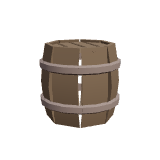
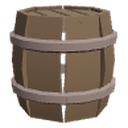
수학 놀이터 검수(1) — 낚시·장터·화물 싣기에서 어색한 곳 고침
- 장터: 생선이 있으면 꾸미기 전에도 물고기 통을 팔고 손님이 생선을 찾음(낚시 → 장터가 처음부터 이어지게, rules.js 그대로)
  굴러가는 물건은 손님 줄을 지나 선착장 뒤 끝에서 바다로 · 잡은 물건은 지금 손님이 원할 때만 바구니로
- 낚시 섬: 실린 통 팻말은 ✓ 대신 그 통의 수 · 맞는 물고기가 없으면 수를 바꾸지 않고 새 물고기가 들어옴
  황금 물고기 눈은 그대로 · 통에 든 물고기는 잠깐 파닥이고 멈춤(가볍게) · 물에 반쯤 잠겨 헤엄 · 처음 낚은 종류를 도감에
- 다리 길 화물: 틈 셋을 훑어 본 뒤에 화물 판이 열리고, 떠나면 바로 시작
- 물건 그림(장터·광장)의 투명 여백을 잘라 크게 보이게 · 광장 나루터 팻말의 그림 키움

Claude-Session: https://claude.ai/code/session_01TAsvZ1RrRa77LFFDK9JdBk

diff --git a/math/play/fishing/fishing.js b/math/play/fishing/fishing.js
@@ -9,14 +9,14 @@
 import { createStage, THREE, LOOK, CALM, sleep } from '../common/stage3d.js?v=1';
 import * as A from '../common/ask.js?v=1';
 import * as R from './rules.js?v=1';
-import { wallet, audio, tone } from '../common/kit.js?v=5';
+import { wallet, audio, tone } from '../common/kit.js?v=6';
 import * as L from '../common/loop.js?v=1';   /* N04: 실은 통의 물고기는 장터 생선 진열대로 */
 
 // ── 내가 정한 수치(준호가 보고 바꾼다)
 const T = { DECK: .45, TUB_X: [-2.7, -1.65, -.6], TUB_Z: 1.9, TUB_S: 1.3, BOAT: [2.35, 0, 1.25], BOAT_S: .48, ANNE: [.55, 1.7],
   SEA: { x: [-5.5, 5.5], z: [-5.8, -2.1] }, FISH_S: 1.35, IN_TUB_S: .58, SPEED: [.55, 1.05], FLY_MS: 650, PICK_PX: 75,
   DUSK: { SUNSET: ['#f08a5d', '#f6b98b', '#ffe0b0'], NIGHT: ['#283057', '#6a4f7d', '#c9806c'], SEA_DUSK: 0x1e5c86 },
-  BEAT: .72, SCATTER: 1.8, THIEF_SPEED: .9, LINE_FAST: .1 };
+  SWIM_Y: -.04, BEAT: .72, SCATTER: 1.8, THIEF_SPEED: .9, LINE_FAST: .1 };
 const $ = id => document.getElementById(id);
 const SAVE = wallet.island('fishing'); SAVE.trips = Math.max(0, SAVE.trips | 0); SAVE.tubs = Math.max(0, SAVE.tubs | 0);
 const S = { ready: false, busy: true, intro: false, missing: false, trip: null, ti: 0, left: 0, fill: [[], [], []], loaded: [], fish: [], tubs: [], tubFish: [[], [], []], clock: 0, streak: 0, overInTub: false, log: [], ask: null, thief: null, thiefIn: 0, schoolIn: 0, t: 0, beat: 0, scatter: 0, signs: [], id: 0 };
@@ -38,7 +38,7 @@ function bucketKit(g){ let mesh = null; g.scene.traverse(m => { if (m.isMesh && 
     const sz = b.size; if (sz.z >= sz.x) inner.rotation.y = Math.PI / 2; const w = new THREE.Group(); w.add(inner); w.userData.len = Math.max(sz.x, sz.z); return w; });
   return { tub, fish, mat: mesh.material }; }
 let KIT = null;
-const tint = (o, color, glow = 0) => { o.traverse(m => { if (m.isMesh) { m.material = m.material.clone(); m.material.color.set(color); if (glow) { m.material.emissive = new THREE.Color(color); m.material.emissiveIntensity = glow; } } }); return o; };
+const tint = (o, color, glow = 0) => { o.traverse(m => { if (m.isMesh) { const c0 = m.material.color; if (c0.r + c0.g + c0.b < .12) return;   /* 어두운 부분(눈)은 그대로 */ m.material = m.material.clone(); m.material.color.set(color); if (glow) { m.material.emissive = new THREE.Color(color); m.material.emissiveIntensity = glow; } } }); return o; };
 
 // ── 무대 꾸리기
 async function build(){ await Promise.all(NAMES.map(async n => { K[n] = await stage.load(n); })); await Promise.all(OPT.map(async n => { try { K[n] = await stage.load(n); } catch (_) { K[n] = null; } }));
@@ -75,7 +75,7 @@ const _v = new THREE.Vector3(); function edgeX(z, side){ _v.set(0, .04, z).proje
 // ── 물고기
 /* 물고기 하나: 고른 모형(움직임 있음)을 감싸서(모형은 +z 를 봄 → 감싼 쪽이 +x 를 보게) 돌려준다. 모형이 없으면 양동이 조각으로 */
 function fishModel(kind, v){ const name = kind === 'gold' ? SPECIAL.gold : kind === 'puffer' ? SPECIAL.puffer : kind === 'big' ? SPECIAL.big[S.id % 2] : FISH[(v * 3 + S.id) % FISH.length], rig = K['Fish_' + name], o = new THREE.Group();
-  if (rig) { const p = stage.person(rig, { scale: 1 }); scene.remove(p.obj); p.obj.rotation.y = Math.PI / 2; o.add(p.obj); stage.play(p, 'Swimming_Normal'); if (p.act) p.act.time = Math.random() * 2; o.userData.p = p; if (kind === 'gold') tint(p.obj, '#ffcf3a', .45); }
+  if (rig) { const p = stage.person(rig, { scale: 1 }); scene.remove(p.obj); p.obj.rotation.y = Math.PI / 2; o.add(p.obj); stage.play(p, 'Swimming_Normal'); if (p.act) p.act.time = Math.random() * 2; o.userData.p = p; o.userData.name = name; if (kind === 'gold') tint(p.obj, '#ffcf3a', .45); }
   else { o.add(KIT.fish[(v + S.id) % KIT.fish.length].clone(true)); if (kind === 'gold') tint(o, '#ffcf3a', .55); else if (kind === 'puffer') { tint(o, '#f3e3a2'); o.scale.set(1, 1.35, 1.25); } }
   o.traverse(m => { if (m.isMesh) m.castShadow = true; }); if (kind === 'big') o.userData.big = true;
   const s = T.FISH_S * (S.fk || 1) * (kind === 'big' ? 1.45 : .8 + Math.min(v, 9) * .06) * (rig ? .95 : 1); o.scale.multiplyScalar(s); scene.add(o); return o; }
@@ -107,16 +107,17 @@ async function hook1(f){ S.busy = true; lineTo(f); stage.play(S.anne, 'Sword', t
   const o = R.land(S.left, f), tub = S.tubs[S.ti], at = tub.position.clone(); at.y += .9; f.caught = true; flap(f.obj); S.log.push({ fish: f.v, kind: f.kind, out: o.kind, left: S.left });
   await stage.tween(f.obj.position, { x: at.x, y: at.y + 1.2, z: at.z }, flyMs() * .65, t => t * (2 - t)); await stage.tween(f.obj.position, { y: at.y }, flyMs() * .35, t => t * t);
   if (o.kind === 'over') { S.overInTub = true; S.streak = 0; A.flames(0); wobble(tub); tone(220, .25, 'sine', .1, 0, 140); S.scatter = T.SCATTER;
-    await stage.tween(f.obj.position, { x: f.x, y: .05, z: f.z }, 700, t => t); f.caught = false; if (f.obj.userData.p) stage.play(f.obj.userData.p, 'Swimming_Normal'); f.dir *= -1; f.sp *= 1.5; stage.play(S.anne, 'No', true); S.busy = false; return; }
+    await stage.tween(f.obj.position, { x: f.x, y: T.SWIM_Y, z: f.z }, 700, t => t); f.caught = false; if (f.obj.userData.p) stage.play(f.obj.userData.p, 'Swimming_Normal'); f.dir *= -1; f.sp *= 1.5; stage.play(S.anne, 'No', true); S.busy = false; return; }
   // 통에 들어감
+  if (f.obj.userData.name && wallet.collect('fish3d', f.obj.userData.name)) S.log.push({ book: f.obj.userData.name });   /* 도감: 처음 낚은 종류 */
   drop(f.obj); S.fish = S.fish.filter(x => x !== f); S.fill[S.ti].push(o.w); putInTub(S.ti, f, o.w); S.left = o.left; A.trayAdd(o.w, S.fill[S.ti].length > 1 ? '+' : '', f.kind === 'puffer' ? '부풂' : f.kind === 'gold' ? '황금' : '');
   tone(700 + S.fill[S.ti].reduce((a, b) => a + b, 0) * 25, .08, 'square', .06); if (f.kind === 'puffer') { tone(880, .2, 'sine', .08, 0, 1320); }
   if (o.kind === 'fit') { await closeTub(); return; }
   topUp(); S.busy = false; }
 function putInTub(k, f, w){ const n = S.tubFish[k].length, o = fishModel(f.kind, f.v); o.scale.multiplyScalar(T.IN_TUB_S / T.FISH_S / (S.fk || 1)); const a = n * 2.4, r = .1 + (n % 4) * .05; o.position.set(S.tubs[k].position.x + Math.cos(a) * r, T.DECK + .64 + Math.floor(n / 4) * .06, T.TUB_Z + Math.sin(a) * r); o.rotation.set(-.3, a, 0);
-  if (f.kind === 'puffer') stage.tween(o.scale, { y: o.scale.y * 1.35, z: o.scale.z * 1.25 }, 300); flap(o); S.tubFish[k].push(o); }
+  if (f.kind === 'puffer') stage.tween(o.scale, { y: o.scale.y * 1.35, z: o.scale.z * 1.25 }, 300); flap(o); S.tubFish[k].push(o); setTimeout(() => { const p = o.userData.p; if (p) { stage.unperson(p); o.userData.p = null; } }, 1600); }   /* 통 안에서는 잠깐 파닥이고 멈춘다(움직임을 계속 돌리면 무겁다) */
 function wobble(tub){ stage.tween(tub.rotation, { z: .28 }, 120).then(() => stage.tween(tub.rotation, { z: -.2 }, 160)).then(() => stage.tween(tub.rotation, { z: 0 }, 200)); }
-function topUp(){ while (S.fish.filter(f => !f.fast).length < S.trip.n) addFish(false); }
+function topUp(){ while (S.fish.filter(f => !f.fast && !f.leave).length < S.trip.n) addFish(false); }
 
 // ── 통이 딱 찼다: 띠의 식이 닫히고 배에 실린다
 async function closeTub(){ const k = S.ti, cap = S.trip.tubs[k]; A.trayAdd(cap, '=', ''); S.loaded.push(cap); if (!S.overInTub) S.streak++; else S.streak = 0; S.overInTub = false; A.flames(S.streak);
@@ -154,7 +155,7 @@ async function intro(){ const my = S.introId = (S.introId | 0) + 1; S.intro = tr
 // ── 팻말: 통(남은 칸 · 지금 통은 크게) · 물고기 등의 수
 function signsDraw(){ const sg = S.signs; S.tubs.forEach((t, k) => { const e = sg[k], done = k < S.loaded.length, cur = k === S.ti && !done;
     if (S.missing && !done) { A.signDraw(e, null); return; }
-    const left = cur ? S.left : done ? 0 : S.trip.tubs[k]; e.classList.toggle('off', !cur && !done); e.classList.toggle('done', done); A.signDraw(e, stage.screenOf(new THREE.Vector3(t.position.x, t.position.y + 1.2, t.position.z + .2)), done ? '✓' : left); });
+    const left = cur ? S.left : done ? 0 : S.trip.tubs[k]; e.classList.toggle('off', !cur && !done); e.classList.toggle('done', done); A.signDraw(e, stage.screenOf(new THREE.Vector3(t.position.x, t.position.y + (done ? .95 : 1.2), t.position.z + .2)), done ? S.loaded[k] : left); });   /* 실린 통은 그 통의 수를 그대로(끝의 셈에 쓸 수) */
   /* 물고기 팻말: 겹치면 위로 비켜 선다(화면 위 표시끼리만 — 물고기는 그대로) */
   const live = S.fish.filter(f => !f.caught), pts = live.map(f => { const q = stage.screenOf(new THREE.Vector3(f.obj.position.x, f.obj.position.y + .55 * (f.kind === 'big' ? 1.6 : 1), f.obj.position.z)); return { f, x: q.x, y: q.y, w: f.v <= 5 && f.kind !== 'gold' ? 14 + f.v * 12 : 38 }; }).sort((a, b) => b.y - a.y);
   for (let a = 0; a < pts.length; a++) for (let b = 0; b < a; b++) { const A = pts[a], B = pts[b]; if (Math.abs(A.x - B.x) < (A.w + B.w) / 2 + 4 && Math.abs(A.y - B.y) < 34) A.y = B.y - 36; }
@@ -167,10 +168,10 @@ stage.frame((dt, t) => { S.t = t; if (!S.ready) return;
     if (S.clock > T.BEAT && t - S.beat > .25 + (1 - S.clock) * 2.4) { S.beat = t; tone(96, .09, 'sine', .16); tone(72, .12, 'sine', .12, .09); } }
   // 물고기가 헤엄친다(넘친 뒤엔 잠깐 흩어짐)
   S.scatter = Math.max(0, S.scatter - dt); const boost = 1 + S.scatter;
-  for (const f of S.fish) { if (f.caught) continue; f.x += f.dir * f.sp * boost * dt; const o = f.obj; o.position.set(f.x, .04 + Math.sin(t * 2 + f.ph) * .05, f.z + Math.sin(t * .7 + f.ph) * .25); o.rotation.y = f.dir > 0 ? 0 : Math.PI; o.rotation.z = Math.sin(t * 6 + f.ph) * .12;
-    const l = edgeX(f.z, -1) - .9, r = edgeX(f.z, 1) + .9; if (f.fast) { if ((f.dir > 0 && f.x > r + 2) || (f.dir < 0 && f.x < l - 2)) f.gone = true; }   /* 떼는 지나간 쪽 끝에서만 사라짐 */ else if ((f.x < l + 1.4 && f.dir < 0) || (f.x > r - 1.4 && f.dir > 0)) f.dir *= -1; }
+  for (const f of S.fish) { if (f.caught) continue; f.x += f.dir * f.sp * boost * dt; const o = f.obj; o.position.set(f.x, T.SWIM_Y + Math.sin(t * 2 + f.ph) * .05, f.z + Math.sin(t * .7 + f.ph) * .25); o.rotation.y = f.dir > 0 ? 0 : Math.PI; o.rotation.z = Math.sin(t * 6 + f.ph) * .12;
+    const l = edgeX(f.z, -1) - .9, r = edgeX(f.z, 1) + .9; if (f.fast || f.leave) { if ((f.dir > 0 && f.x > r + 2) || (f.dir < 0 && f.x < l - 2)) f.gone = true; }   /* 떼는 지나간 쪽 끝에서만 사라짐 */ else if ((f.x < l + 1.4 && f.dir < 0) || (f.x > r - 1.4 && f.dir > 0)) f.dir *= -1; }
   for (const f of S.fish.filter(f => f.gone)) drop(f.obj); S.fish = S.fish.filter(f => !f.gone);
-  if (!S.busy && !S.missing && S.left > 0) { const live = S.fish.filter(f => !f.caught); const u = R.unstick(S.left, S.trip, live); if (u != null) { const f = live.find(x => x.kind === 'plain') || live[0]; if (f) { f.kind = 'plain'; f.v = u; } } }
+  if (!S.busy && !S.missing && S.left > 0) { const live = S.fish.filter(f => !f.caught); const u = R.unstick(S.left, S.trip, live); if (u != null && !live.some(x => x.rescue)) { const out = live.find(x => x.kind === 'plain' && !x.fast); if (out) out.leave = true; const f = addFish(false, { kind: 'plain', v: u }); f.rescue = true; f.sp *= 1.6; S.log.push({ rescue: u }); } }   /* 맞는 물고기가 없으면: 수를 바꾸지 않고, 맞는 물고기가 새로 들어오고 안 맞는 한 마리가 나간다 */
   // 빠른 떼
   if (S.trip.ev.school && thinking && !S.ask && (S.schoolIn -= dt) <= 0) { S.schoolIn = 14 + Math.random() * 10; const dir = Math.random() < .5 ? 1 : -1, z = -2 - Math.random() * 2.5; R.school(S.left, S.trip, Math.random).forEach((v, i) => { const f = addFish(false, { kind: 'plain', v, fast: true }); f.dir = dir; f.x = (dir > 0 ? edgeX(z, -1) - 1 : edgeX(z, 1) + 1) - dir * i * .9; f.z = z + (i % 2) * .5; }); S.log.push({ school: true }); tone(660, .08, 'triangle', .06); }
   // 도둑 배

diff --git a/math/play/market/scene3d.js b/math/play/market/scene3d.js
@@ -3,8 +3,8 @@
  * 손님의 말풍선(주문 팻말)은 shop.js 의 .guest 를 사람 머리 위로 옮겨 쓴다. 물체는 모두 기성 재료(Quaternius Pirate Kit, CC0) — ../bridge/assets/ 를 같이 씀.
  * 물건 모습: 장작 = UI_Wood · 돌 = Environment_Rock_5 · 통 = Prop_Barrel · 물고기 통 = Prop_Bucket_Fishes(음식 꾸러미를 받으면 GOODS 표만 바꾼다). 빵집 물건은 모형이 없어 아래 칸(나무 상자 줄)에서만 담는다. */
 import { createStage, THREE, sleep, CALM } from '../common/stage3d.js?v=1';
-import { toast, tone, audio } from '../common/kit.js?v=5';
-import * as M5 from './rules.js?v=2';
+import { toast, tone, audio } from '../common/kit.js?v=6';
+import * as M5 from './rules.js?v=3';
 
 // ── 내가 정한 수치
 const M = {
@@ -12,6 +12,7 @@ const M = {
   LINE_Z: -.7, SLOT: 1.55, EDGE: 3.5,          // 손님이 서는 줄(가운데부터 양옆으로)
   COUNTER_Z: 1.75, TOP: .83, BARREL: .62,       // 계산대(통 줄) · 윗면
   ROLL_MS: 3200,                    // 굴러가는 물건이 굴러 떨어지기까지(몇 초마다는 ./rules.js N5.ROLL)
+  EDGE_Z: -2.5,                     // 선착장 뒤 끝(굴러간 물건이 바다에 빠지는 곳)
   WAIT_STOMP: .3,                   // 이보다 덜 남으면 손님이 발을 구른다(고개 젓기)
   FIT: 4.3,                         // 화면 폭에 늘 들어올 양끝(물고기 통 더미 바깥)
 };
@@ -63,7 +64,7 @@ function pile(k, box){ const key = box ? 'box' : k, old = piles[key]; if (old) {
   if (box) for (let i = 0; i < 10; i++) { const o = good(k, .62); if (o) { o.position.set(((i % 5) - 2) * .25, (i < 5 ? 0 : .2), i < 5 ? .12 : -.08); g.add(o); } }
   else for (const [x, y, z] of pileShape(n)) { const o = good(k); if (o) { o.position.set(x, y, z); o.rotation.y = Math.random() * 6; g.add(o); } }
   piles[key] = { g, k, box }; tag(g, { t: box ? 'box' : 'pile', k }); return g; }
-function piles3(){ const o = shop.SAVE.owned, list = shop.R.goods(o, S.shop).filter(k => GOODS[k] && (k !== 'grape' || shop.L.fish() > 0))   /* 생선이 없으면 물고기 통 더미도 없음 */, want = new Set(list.map(k => k)); const box = (o.box && GOODS[shop.R.STOCK[S.shop]]) ? shop.R.STOCK[S.shop] : null;
+function piles3(){ const o = shop.SAVE.owned, list = shop.goodsM().filter(k => GOODS[k] && (k !== 'grape' || shop.L.fish() > 0))   /* 생선이 없으면 물고기 통 더미도 없음 */, want = new Set(list.map(k => k)); const box = (o.box && GOODS[shop.R.STOCK[S.shop]]) ? shop.R.STOCK[S.shop] : null;
   for (const key of Object.keys(piles)) if ((key === 'box' ? !box || piles.box.k !== box : !want.has(key))) { scene.remove(piles[key].g); pick.splice(pick.indexOf(piles[key].g), 1); delete piles[key]; }
   for (const k of list) if (!piles[k]) pile(k); if (box && !piles.box) pile(box, true); }
 
@@ -115,8 +116,8 @@ function startRoll(){ const ks = Object.keys(piles).filter(k => k !== 'box'); if
   const o = good(P.k), from = new THREE.Vector3(); src.getWorldPosition(from); src.visible = false; o.position.copy(from); scene.add(o); const dir = from.x < 0 ? 1 : -1;
   roll = { o, src, k: P.k, t: 0, dir, x0: from.x }; tag(o, { t: 'roll' }); o.position.y = M.FLOOR + .15; tone(330, .2, 'triangle', .06, 0, 220); S.log.push({ roll: 'start' }); }
 function endRoll(caught){ const r = roll; if (!r) return; roll = null; pick.splice(pick.indexOf(r.o), 1); S.log.push({ roll: caught ? 'caught' : 'miss' });
-  if (caught) { audio(); tone(780, .1, 'square', .06); tone(1170, .14, 'square', .06, .08); toast('잡았다!', 900); shop.put(r.k, 1);   /* 잡으면 바로 바구니로(바구니가 차 있으면 더미로 돌아감) */ tween(r.o.position, { y: r.o.position.y + .8 }, 220).then(() => { scene.remove(r.o); r.src.visible = true; }); }
-  else { tween(r.o.position, { y: -1.2, z: r.o.position.z + 1.6 }, 600).then(() => { scene.remove(r.o); setTimeout(() => r.src.visible = true, 1500); }); tone(200, .3, 'sine', .06, 0, 90); } }
+  if (caught) { audio(); tone(780, .1, 'square', .06); tone(1170, .14, 'square', .06, .08); toast('잡았다!', 900); const g = S.sel, want = g && !g.leaving && !S.payG ? (g.order[r.k] || 0) - shop.count(r.k) : 0; if (want > 0) shop.put(r.k, 1);   /* 지금 손님이 그 물건을 더 원하면 바구니로, 아니면 더미로 돌아감(주문을 흐트러뜨리지 않게) */ tween(r.o.position, { y: r.o.position.y + .8 }, 220).then(() => { scene.remove(r.o); r.src.visible = true; }); }
+  else { tween(r.o.position, { y: -1.2, z: r.o.position.z - .7 }, 600, t => t * t).then(() => { scene.remove(r.o); setTimeout(() => r.src.visible = true, 1500); }); tone(200, .3, 'sine', .06, 0, 90); } }   /* 선착장 뒤 끝에서 바다로 퐁 */
 
 // ── 누르기
 $('c').addEventListener('pointerdown', e => { const hit = pointerRay(e).intersectObjects(pick, true)[0]; if (!hit) return; const a = hit.object.userData.act; if (!a) return; e.preventDefault(); audio();
@@ -131,7 +132,7 @@ function bump(P){ if (!P) return; const g = P.g; tween(g.scale, { y: .9 }, 70).t
 let t0 = 0;
 let aimT = 0;
 stage.frame((dt, t) => { if ((aimT += dt) > .4) { aimT = 0; const pn = document.querySelector('.inside'), k = innerWidth + 'x' + innerHeight + ':' + Math.round(pn ? pn.getBoundingClientRect().top : 0); if (k !== aimKey) aim(); } piles3(); drawBasket(); drawSlots(); sync(); if (ship) { ship.position.y = Math.sin(t * .8) * .06; ship.rotation.z = Math.sin(t * .6) * .03; }
-  if (roll) { roll.t += dt * 1000; const k = roll.t / M.ROLL_MS; roll.o.position.x = roll.x0 + roll.dir * k * 4.2; roll.o.rotation.z -= roll.dir * dt * 6; roll.o.position.z = M.COUNTER_Z + .1 - k * .8;   /* 줄 쪽으로(아래 판에 가리지 않게) */ if (k >= 1) endRoll(false); }
+  if (roll) { roll.t += dt * 1000; const k = roll.t / M.ROLL_MS; roll.o.position.x = roll.x0 + roll.dir * k * 1.6; roll.o.rotation.x -= dt * 7; roll.o.position.z = M.COUNTER_Z + .1 + (M.EDGE_Z - M.COUNTER_Z - .1) * k;   /* 손님 줄 사이를 지나 선착장 뒤 끝으로 */ if (k >= 1) endRoll(false); }
   else if (!CALM && S.q.length && !S.asking && !S.payG && !S.paused) { const n5 = shop.SAVE.n5; if (rollIn === Infinity) { if (n5.seen.roll) rollIn = M5.rollGap(); else if (M5.rollDue(n5)) rollIn = 2.5; } else { rollIn -= dt; if (rollIn <= 0) { n5.seen.roll = true; shop.wallet.save(); rollIn = M5.rollGap(); startRoll(); } } }
   t0 = t; });
 $('loading').style.opacity = 0; setTimeout(() => $('loading').remove(), 500);

diff --git a/math/play/shop/shop.js b/math/play/shop/shop.js
@@ -5,10 +5,10 @@
  *     과일 상자를 셋 다 사면 값이 붙고(손님이 올려놓은 돈을 보고 「받기」·「더 줘야지?」), 값을 받은 손님이 열이 되면 거스름.
  *     다 꾸미면 옆에 빵집(식빵 10 · 크루아상 5). 규칙은 ./rules.js.
  * 틀(위쪽 띠·동전·알림·효과음·「커졌어!」)은 ../common/kit.js, 그림은 ../common/art.js. 산 것·하트·단골·오늘 장사는 지갑의 가게 칸에 남는다. */
-import { wallet, art, arts, group, paint, hud, pay, grew, did, audio, tone, sfx, toast } from '../common/kit.js?v=5';
+import { wallet, art, arts, group, paint, hud, pay, grew, did, audio, tone, sfx, toast } from '../common/kit.js?v=6';
 import * as R from './rules.js?v=2';
 import * as A from '../common/ask.js?v=1';
-import * as M5 from '../market/rules.js?v=2';
+import * as M5 from '../market/rules.js?v=3';
 import * as L from '../common/loop.js?v=1';   /* N04 고리: 장터의 「물고기 통」은 낚시에서 가져온 생선만큼 */
 const $ = id => document.getElementById(id), one = a => a[Math.floor(Math.random() * a.length)], wait = ms => new Promise(r => setTimeout(r, ms));
 /* N05: 3D 항구 장터(/math/play/market/)는 같은 규칙에 물건 모습만 다르다(음식 꾸러미를 받으면 이 표만 바꾼다). M3 = 3D 쪽에서만 켜지는 것: 팻말의 남은 수 · 줄 끝의 셈 · 거스름 식 · 섞는 것 */
@@ -31,9 +31,12 @@ function look(){ const o = O(), roof = $('roof'), bake = S.shop === 'bakery';
   $('shopName').textContent = bake ? R.BAKERY.name : R.shopName(o); roof.classList.toggle('sign', !!o.sign && !bake); roof.classList.toggle('awning', !!o.awning); roof.classList.toggle('bakery', bake); $('bell').hidden = !o.bell; $('lamp').hidden = !o.lamp;
   $('shop').classList.toggle('has-pot', !!o.pot); $('basket').classList.toggle('big', !!o.basket || bake); shelf(); hearts(); hammer(); dayBar(); }
 /* N04 생선 진열대(3D 만): 나무 상자 칸에 남은 생선 수, 다 팔리면 빈 칸 */
-function fishMark(){ if (!M3) return; const a = $('shelf').querySelector('[data-k="grape"]'); if (!a) return; let s = a.querySelector('.stock'); if (!s) { s = el('span', 'stock'); a.appendChild(s); } const n = L.fish() - count('grape'); s.textContent = Math.max(0, n); a.classList.toggle('empty', n < 1); }
+/* 생선이 있으면 꾸미기와 상관없이 물고기 통을 판다(낚시 → 장터가 처음부터 이어지게). 규칙(rules.js)은 그대로 — 진열 목록과 주문에만 얹는다 */
+const fishOn = () => M3 && S.shop === 'fruit' && L.fish() > 0;
+function goodsM(){ const g = R.goods(O(), S.shop); if (fishOn() && !g.includes('grape')) g.push('grape'); return g; }
+function fishMark(){ if (!M3) return; let a = $('shelf').querySelector('[data-k="grape"]'); if (S.shop === 'fruit' && !a && fishOn()) { shelf(); return; } if (!a) return; let s = a.querySelector('.stock'); if (!s) { s = el('span', 'stock'); a.appendChild(s); } const n = L.fish() - count('grape'); s.textContent = Math.max(0, n); a.classList.toggle('empty', n < 1); }
 function shelf(fresh){ const o = O(), sh = $('shelf'), price = R.priceOn(o, S.shop); sh.innerHTML = '';
-  for (const k of R.goods(o, S.shop)) { const b = el('button', 'crate', pic(k) + (price ? `<span class="tag">${R.PRICE[k]}</span>` : '')); b.dataset.k = k; b.onclick = () => put(k, 1); sh.appendChild(b); }
+  for (const k of goodsM()) { const b = el('button', 'crate', pic(k) + (price ? `<span class="tag">${R.PRICE[k]}</span>` : '')); b.dataset.k = k; b.onclick = () => put(k, 1); sh.appendChild(b); }
   if (o.box || S.shop === 'bakery') { const k = key(), b = el('button', 'crate', `${art('shop.box')}<small>${pic(k)} 10개</small>`); b.dataset.k = 'box'; b.onclick = () => put(k, 10); sh.appendChild(b); }
   if (fresh) { const b = sh.querySelector(`[data-k="${fresh}"]`); if (b) b.classList.add('new'); } stockMarks(); fishMark(); }
 function stockMarks(){ if (!dayMode() || T().phase !== 'open') return; const k = key(), n = T().stock, a = $('shelf').querySelector(`[data-k="${k}"]`), b = $('shelf').querySelector('[data-k="box"]');
@@ -71,6 +74,8 @@ function arrive(){ let kind, face, order, pi = -1, newReg = false;
     newReg = S.shop === 'fruit' && kind !== 'regular' && SAVE.heart >= R.TUNE.HEART && Object.keys(SAVE.regs).length < R.TUNE.REG_MAX; }
   else { const regsOut = Object.keys(SAVE.regs).filter(f => !S.q.some(g => g.face === f)), n = R.nextGuest(SAVE, regsOut); kind = n.kind; newReg = n.newReg;
     const busy = new Set([...S.q.map(g => g.face), ...Object.keys(SAVE.regs)]); face = n.reg || one(FACES.filter(f => !busy.has(f))); order = kind === 'regular' ? { ...SAVE.regs[face].o } : R.orderFor(O(), kind); }
+  /* N04: 생선이 있으면 손님이 생선도 찾는다(꾸미기 전에도 — 낚시 → 장터). 단골이 될 손님·단골 주문에는 얹지 않는다 */
+  if (M3 && !dayMode() && kind !== 'regular' && !newReg && !order.grape && L.fish() > 0 && !(O().fruits || []).includes('grape') && Math.random() < N5.FISH_P) { const n = 1 + Math.floor(Math.random() * Math.min(N5.FISH_MAX, L.fish())); if (total(order) + n <= cap()) order.grape = n; }
   const g = { id: ++S.id, pi, face, kind, newReg, order, wait: 1, hint: 0, leaving: false, el: el('div', 'guest out', '<div class="bubble"></div><span class="face"></span><span class="mark"></span><div class="wait"><i></i></div>') };
   if (kind === 'regular') g.firstUsual = SAVE.regs[face].n <= 1;
   if (M3) { const ev = M5.arrival(SAVE.n5, kind); S.arrivals = SAVE.n5.arrivals; keep(); if (ev.surprise) g.surprise = true; if (ev.fair) { S.fair = N5.FAIR_N; S.log.push({ fair: true }); [196, 247, 294].forEach((f, i) => tone(f, .18, 'square', .06, i * .12)); } else if (S.fair > 0) S.fair--; }
@@ -203,4 +208,4 @@ if (dayMode()) S.shop = T().shop;
 paint(); hud(M3 ? { back: { href: '/math/play/plaza/', label: '← 광장' } } : undefined); look(); drawBasket();
 if (dayMode()) { if (T().phase === 'morning') morning(); else if (T().phase === 'evening') evening(); }
 else if (R.dayOn(O(), 'fruit')) morning();
-window.__shop = { L, S, SAVE, R, wallet, put, unput, select, openSheet, doBuy, arrive, matches, count, morning, evening, E, T, M3, ARTN, NAMEX, M5, CALM };
+window.__shop = { L, goodsM, S, SAVE, R, wallet, put, unput, select, openSheet, doBuy, arrive, matches, count, morning, evening, E, T, M3, ARTN, NAMEX, M5, CALM };

diff --git a/math/play/bridge/bridge.js b/math/play/bridge/bridge.js
@@ -10,7 +10,7 @@
 import { createStage, THREE, LITE, CALM, sleep } from '../common/stage3d.js?v=1';
 import * as A from '../common/ask.js?v=1';
 import * as R from './rules.js?v=6';
-import { wallet, audio, tone, art } from '../common/kit.js?v=5';
+import { wallet, audio, tone, art } from '../common/kit.js?v=6';
 import * as LP from '../common/loop.js?v=1';
 const CARGO = !new URLSearchParams(location.search).has('free');   /* ?free = 화물 싣기 없이(옛 방식, 하네스용) */
 
@@ -146,7 +146,7 @@ function single(){ const rooms = active().map(roomOf).filter(Boolean); if (!room
 
 const wait = async ms => { for (let t = 0; t < ms && !S.skip; t += 50) await sleep(50); };
 // ── 떠나는 장면: 건너편에서 누가 손을 흔든다 → 끊어진 다리를 따라 돌아와 앤 앞에 선다(화면을 누르면 건너뜀)
-async function intro(){ if (S.loading) { cargoOpen(); return; } S.busy = true; S.intro = true; S.skip = false; const f = S.voyages > 1 ? 1 : 0; cam.x = S.dest + .6; cam.wide = 1; await wait(T.INTRO_HOLD[f]); if (!S.skip) await stage.tween(cam, { x: camHome() }, T.INTRO_MS[f] * (S.ev.big ? 1.5 : 1)); cam.x = camHome(); cam.wide = camWide(); S.intro = false; S.busy = false; S.idle = S.t; single(); }
+async function intro(){ S.busy = true; S.intro = true; S.skip = false; const f = S.voyages > 1 ? 1 : 0; cam.x = S.dest + .6; cam.wide = 1; await wait(T.INTRO_HOLD[f]); if (!S.skip) await stage.tween(cam, { x: camHome() }, T.INTRO_MS[f] * (S.ev.big ? 1.5 : 1)); cam.x = camHome(); cam.wide = camWide(); S.intro = false; if (S.loading) { cargoOpen(); return; }   /* 화물 길: 틈 셋을 훑어 본 뒤에 화물 판이 열린다 */ S.busy = false; S.idle = S.t; single(); }
 const camHome = () => longTall() ? longFocus(S.gi) : active().length > 1 || slotsOf(S.gi) > R.SLOTS ? spanMid() : ox(S.gi) + HOME;
 const camWide = () => active().length > 1 ? T.TWIN_ZOOM : longTall() ? 1 : slotsOf(S.gi) > R.SLOTS ? T.LONG_ZOOM : 1;
 
@@ -223,11 +223,11 @@ function cargoTap(e){ if (!S.loading) return; const ray = stage.pointerRay(e), r
   if (!r) { let best = 1e9; for (const x of rs) { const q = stage.screenOf(x.group), d = Math.hypot(q.x - e.clientX, q.y - e.clientY); if (d < best) { best = d; r = x; } } if (best > T.PICK_PX) r = null; }   /* 판자 사이를 눌러도 가장 가까운 뗏목 */
   if (!r || r.single) return;
   audio(); LP.refundPlanks(r.n); r.used = true; for (const p of r.planks) scene.remove(p); scene.remove(r.group); S.rafts = S.rafts.filter(x => x !== r); layout(300); tone(300, .08, 'sine', .06); S.log.push({ unload: r.n }); cargoOpen(); }
-function cargoGo(){ if (!live().length) return; audio(); S.voy.cargo = live().map(r => r.n); S.loaded = S.voy.cargo.reduce((a, b) => a + b, 0); S.loading = false; cg.el.hidden = true; A.trayClear(); S.log.push({ depart: S.voy.cargo.slice(), need: S.voy.gaps.map(g => g.need) }); tone(392, .15, 'triangle', .1); tone(523, .2, 'triangle', .1, .15); intro(); }
+function cargoGo(){ if (!live().length) return; audio(); S.voy.cargo = live().map(r => r.n); S.loaded = S.voy.cargo.reduce((a, b) => a + b, 0); S.loading = false; cg.el.hidden = true; A.trayClear(); S.log.push({ depart: S.voy.cargo.slice(), need: S.voy.gaps.map(g => g.need) }); tone(392, .15, 'triangle', .1); tone(523, .2, 'triangle', .1, .15); layout(500); S.busy = false; S.idle = S.t; single(); }   /* 틈은 이미 봤으니 바로 시작 */
 
 // ── 손으로 끌기
 const liftPlane = new THREE.Plane(new THREE.Vector3(0, 1, 0), -(T.DECK + .45)), hit = new THREE.Vector3(), canvas = $('c');
-canvas.addEventListener('pointerdown', e => { if (S.loading) { cargoTap(e); return; } if (S.intro) { S.skip = true; S.tweens.forEach(w => { if (w.o === cam) w.t = w.ms; }); return; } if (S.busy || !S.ready || S.missing) return; audio(); hintOff(); const ray = stage.pointerRay(e), rs = live(), h = ray.intersectObjects(rs.flatMap(r => r.planks), false)[0];
+canvas.addEventListener('pointerdown', e => { if (S.loading && !S.intro) { cargoTap(e); return; } if (S.intro) { S.skip = true; S.tweens.forEach(w => { if (w.o === cam) w.t = w.ms; }); return; } if (S.busy || !S.ready || S.missing) return; audio(); hintOff(); const ray = stage.pointerRay(e), rs = live(), h = ray.intersectObjects(rs.flatMap(r => r.planks), false)[0];
   let r = h ? rs.find(x => x.planks.includes(h.object)) : null;
   if (!r) { let best = 1e9; for (const x of rs) { const q = stage.screenOf(x.group), d = Math.hypot(q.x - e.clientX, q.y - e.clientY); if (d < best) { best = d; r = x; } } if (best > T.PICK_PX) r = null; }   /* 판자 사이 틈을 눌러도 집힘 */
   if (!r || S.tweens.some(w => w.o === r.group)) return; S.drag = { r, id: e.pointerId }; canvas.setPointerCapture(e.pointerId); tone(520, .06, 'sine', .06); });

diff --git a/math/play/common/art.js b/math/play/common/art.js
@@ -1,5 +1,5 @@
 /* 수학 놀이터 그림 이름표 — 섬 페이지는 그림을 직접 쓰지 않고 art('fruit.apple') 처럼 이름으로 부른다.
- * 지금은 전부 이모지다. 나중에 그린 그림으로 바꿀 때는 이 표만 고친다(값을 { src: '/math/play/art/fruit.apple.png' } 로 두면 <img> 가 된다).
+ * 지금은 전부 이모지다. 나중에 그린 그림으로 바꿀 때는 이 표만 고친다(값을 { src: '/math/play/art/fruit.apple.png?v=2' } 로 두면 <img> 가 된다).
  * 파일 이름 규칙: /math/play/art/<이름표>.png (예: fruit.apple.png · guest.bear.png) */
 const ART = {
   'coin': '🪙',
@@ -8,8 +8,8 @@ const ART = {
   'shop.hammer': '🔨', 'shop.basket': '🧺', 'shop.awning': '⛱', 'shop.bell': '🔔', 'shop.sign': '🪧', 'shop.pot': '🪴', 'shop.lamp': '🏮',
   'bake.bread': '🍞', 'bake.croissant': '🥐', 'shop.cart': '🛒', 'shop.till': '💰', 'shop.safe': '🏦', 'shop.door': '🚪', 'shop.memo': '📝', 'day.morning': '🌅', 'day.evening': '🌇',
   // 항구 장터·광장(N05 검수): 물건은 Pirate Kit 모형을 찍은 그림(/math/play/art/, CC0 재료에서 만듦)
-  'market.wood': { src: '/math/play/art/market.wood.png' }, 'market.stone': { src: '/math/play/art/market.stone.png' }, 'market.barrel': { src: '/math/play/art/market.barrel.png' }, 'market.fish': { src: '/math/play/art/market.fish.png' },
-  'plaza.wood': { src: '/math/play/art/plaza.wood.png' }, 'map.piece': '🧩', 'hint.hand': '👆',
+  'market.wood': { src: '/math/play/art/market.wood.png?v=2' }, 'market.stone': { src: '/math/play/art/market.stone.png?v=2' }, 'market.barrel': { src: '/math/play/art/market.barrel.png?v=2' }, 'market.fish': { src: '/math/play/art/market.fish.png?v=2' },
+  'plaza.wood': { src: '/math/play/art/plaza.wood.png?v=2' }, 'map.piece': '🧩', 'hint.hand': '👆',
   'shop.heart': '❤', 'shop.heart.empty': '🤍', 'guest.mark.hurry': '💦', 'guest.mark.regular': '💛',
   'guest.bear': '🐻', 'guest.rabbit': '🐰', 'guest.cat': '🐱', 'guest.dog': '🐶', 'guest.fox': '🦊', 'guest.panda': '🐼', 'guest.frog': '🐸', 'guest.monkey': '🐵',
   // 낚시 섬

diff --git a/math/play/plaza/index.html b/math/play/plaza/index.html
@@ -23,7 +23,7 @@ canvas{display:block;width:100%;height:100%}
 #req{position:fixed;z-index:3;transform:translate(-50%,-100%);display:flex;align-items:center;gap:4px;background:#fff;color:#12314a;border:3px solid #12314a;border-radius:16px;padding:3px 10px;font-weight:900;font-size:1.4rem;line-height:1.2;cursor:pointer}
 #req::after{content:"";position:absolute;left:50%;top:100%;margin-left:-7px;border:7px solid transparent;border-top-color:#12314a}#req img.art{height:1.25em;width:auto;vertical-align:middle}
 #req.ready{background:#c8f2ae;animation:rqpop 1s infinite}@keyframes rqpop{50%{transform:translate(-50%,-100%) scale(1.1)}}
-.sign.dock{min-width:44px;height:44px;font-size:1.5rem}.sign small img.art{height:3.2em;width:auto;vertical-align:middle}
+.sign.dock{min-width:44px;height:44px;font-size:1.5rem}.sign.dock small{font-size:.8em;opacity:1;line-height:1}.sign small img.art{height:1.5em;width:auto;vertical-align:middle}
 .sign.want{animation:want 1s infinite}@keyframes want{50%{transform:translate(-50%,-100%) scale(1.18);border-color:#e05a2a;background:#ffe0c8}}
 @media (max-width:520px){.sign{min-width:40px;height:40px;font-size:1.45rem;border-width:3px;padding:0 7px}.sign.dock{min-width:36px;height:36px;font-size:1.15rem}#wish,#req{font-size:1.05rem;padding:2px 7px}}
 </style>
@@ -34,6 +34,6 @@ canvas{display:block;width:100%;height:100%}
 <div id="tray"></div><div id="pick"></div><div id="wish" hidden></div><div id="req" hidden></div><div id="map" hidden></div>
 <div id="fade"></div>
 <div id="loading">항구로 가는 중…</div>
-<script type="module" src="./plaza.js?v=5"></script>
+<script type="module" src="./plaza.js?v=7"></script>
 </body>
 </html>

diff --git a/math/play/fish/fish.js b/math/play/fish/fish.js
@@ -2,7 +2,7 @@
  * 넘치게 낚으면 통이 기우뚱하고 물고기가 도로 뛰어 나간다(문제 창·채점 없음). 통을 보낼수록 배가 커진다(칸 5 → 10 → 20).
  * 수학: 수 세기 → 모으기 → 10 만들기 → 세 수의 덧셈·십몇. 드러내지 않는다.
  * 틀(위쪽 띠·동전·알림·효과음·「커졌어!」)은 ../common/kit.js, 그림은 ../common/art.js. 동전은 지갑으로, 걸음(stage·sent)은 지갑의 낚시 칸에 남는다. */
-import { wallet, art, group, paint, hud, pay, toast, grew, did, audio, tone, sfx } from '../common/kit.js?v=5';
+import { wallet, art, group, paint, hud, pay, toast, grew, did, audio, tone, sfx } from '../common/kit.js?v=6';
 const $ = id => document.getElementById(id), R = (a, b) => a + Math.floor(Math.random() * (b - a + 1));
 const STAGES = [ { cap: 5, max: 3, need: 3, n: 4, sp: 1 }, { cap: 10, max: 5, need: 4, n: 5, sp: 1.1, msg: '통이 커졌어! 열 칸' }, { cap: 10, max: 9, need: 5, n: 6, sp: 1.25, msg: '큰 물고기가 나타났어!' }, { cap: 20, max: 9, need: 99, n: 7, sp: 1.35, msg: '배가 커졌어! 스무 칸' } ];
 const KIND = group('fish');

diff --git a/math/play/island/island.js b/math/play/island/island.js
@@ -4,7 +4,7 @@
  * 3D: /labs/vendor/three185 (r185). 설계: 핸드오프 kmotion/math-wizard/24_수학놀이터_활동의섬_설계_v1.md
  * 동전 = 지갑(../common/wallet.js). 주운 동전은 그날 다시 나오지 않는다. 마을 한가운데 게시판에 다가가면 「오늘의 부탁」 셋이 뜨고, 해낸 부탁엔 도장이 찍힌다. */
 import * as THREE from 'three';
-import { wallet, art, glyph, hud, pay, did, audio, tone, sfx, confetti } from '../common/kit.js?v=5';
+import { wallet, art, glyph, hud, pay, did, audio, tone, sfx, confetti } from '../common/kit.js?v=6';
 // 내가 정한 수치(게시판)
 const BOARD = { x: 4.4, z: 3.2, near: 3.6, stampGap: 550 };
 const $ = id => document.getElementById(id);

diff --git a/math/play/market/rules.js b/math/play/market/rules.js
@@ -11,6 +11,7 @@ export const N5 = {
   STREAK_GAP: .1, STREAK_MAX: 4, STREAK_BONUS_AT: 3,     // 불꽃: 하나마다 다음 손님 10% 빨리(넷까지) · 셋부터 덤 동전 1
   BONUS: 3,                     // 깜짝 손님 덤 동전
   ROLL: [40, 70],               // 굴러가는 물건: 처음 본 뒤 몇 초마다
+  FISH_P: .4, FISH_MAX: 3,        // 생선이 있을 때(물고기 통을 아직 안 샀어도) 손님이 생선을 찾을 확률 · 한 번에 찾는 수
   DRUM: .3,                     // 손님 기다림이 이만큼 남으면 북소리(생각할 시간이 다 돼 감)
 };
 

diff --git a/math/play/index.html b/math/play/index.html
@@ -33,7 +33,7 @@ a.go:active{transform:translateY(6px);box-shadow:0 4px 0 rgba(0,0,0,.22);animati
 </main>
 <p class="more">맛보기 · <a href="./market/">항구 장터</a><a href="./shop/">가게 섬</a><a href="./fishing/">낚시 섬</a><a href="./cards/">수 카드 모험</a><a href="/kmotion/taste/">놀이 열 가지</a></p>
 <script type="module">
-import { wallet, paint } from './common/kit.js?v=5';
+import { wallet, paint } from './common/kit.js?v=6';
 paint(); document.getElementById('coins').textContent = wallet.coins();
 </script>
 </body>

diff --git a/math/play/common/kit.js b/math/play/common/kit.js
@@ -2,7 +2,7 @@
  * 걸음이 오를 때의 「커졌어!」 · 부탁을 해냈을 때의 리본 · 저장 안내 한 줄(동의 전).
  * 섬 페이지는 걸음 표(STAGES)·반응·커짐만 가진다. 같은 기능을 섬마다 따로 쓰지 않는다. */
 import * as wallet from './wallet.js?v=1';
-import { art, arts, group, paint, glyph } from './art.js?v=4';
+import { art, arts, group, paint, glyph } from './art.js?v=5';
 export { wallet, art, arts, group, paint, glyph };
 
 // ── 내가 정한 수치

diff --git a/math/play/island/index.html b/math/play/island/index.html
@@ -43,6 +43,6 @@ canvas{display:block;width:100%;height:100%}
 <div id="big"><b id="bigT"></b><span id="bigS"></span></div>
 <div id="arrow"><svg viewBox="0 0 44 44" id="arrowSvg"><path d="M22 4 38 34 22 27 6 34Z" fill="#ffd35c" stroke="#fff" stroke-width="3" stroke-linejoin="round"/></svg><span id="arrowT"></span></div>
 <div id="stick"><i></i></div><button id="jump">점프</button>
-<script type="module" src="./island.js?v=11"></script>
+<script type="module" src="./island.js?v=12"></script>
 </body>
 </html>
